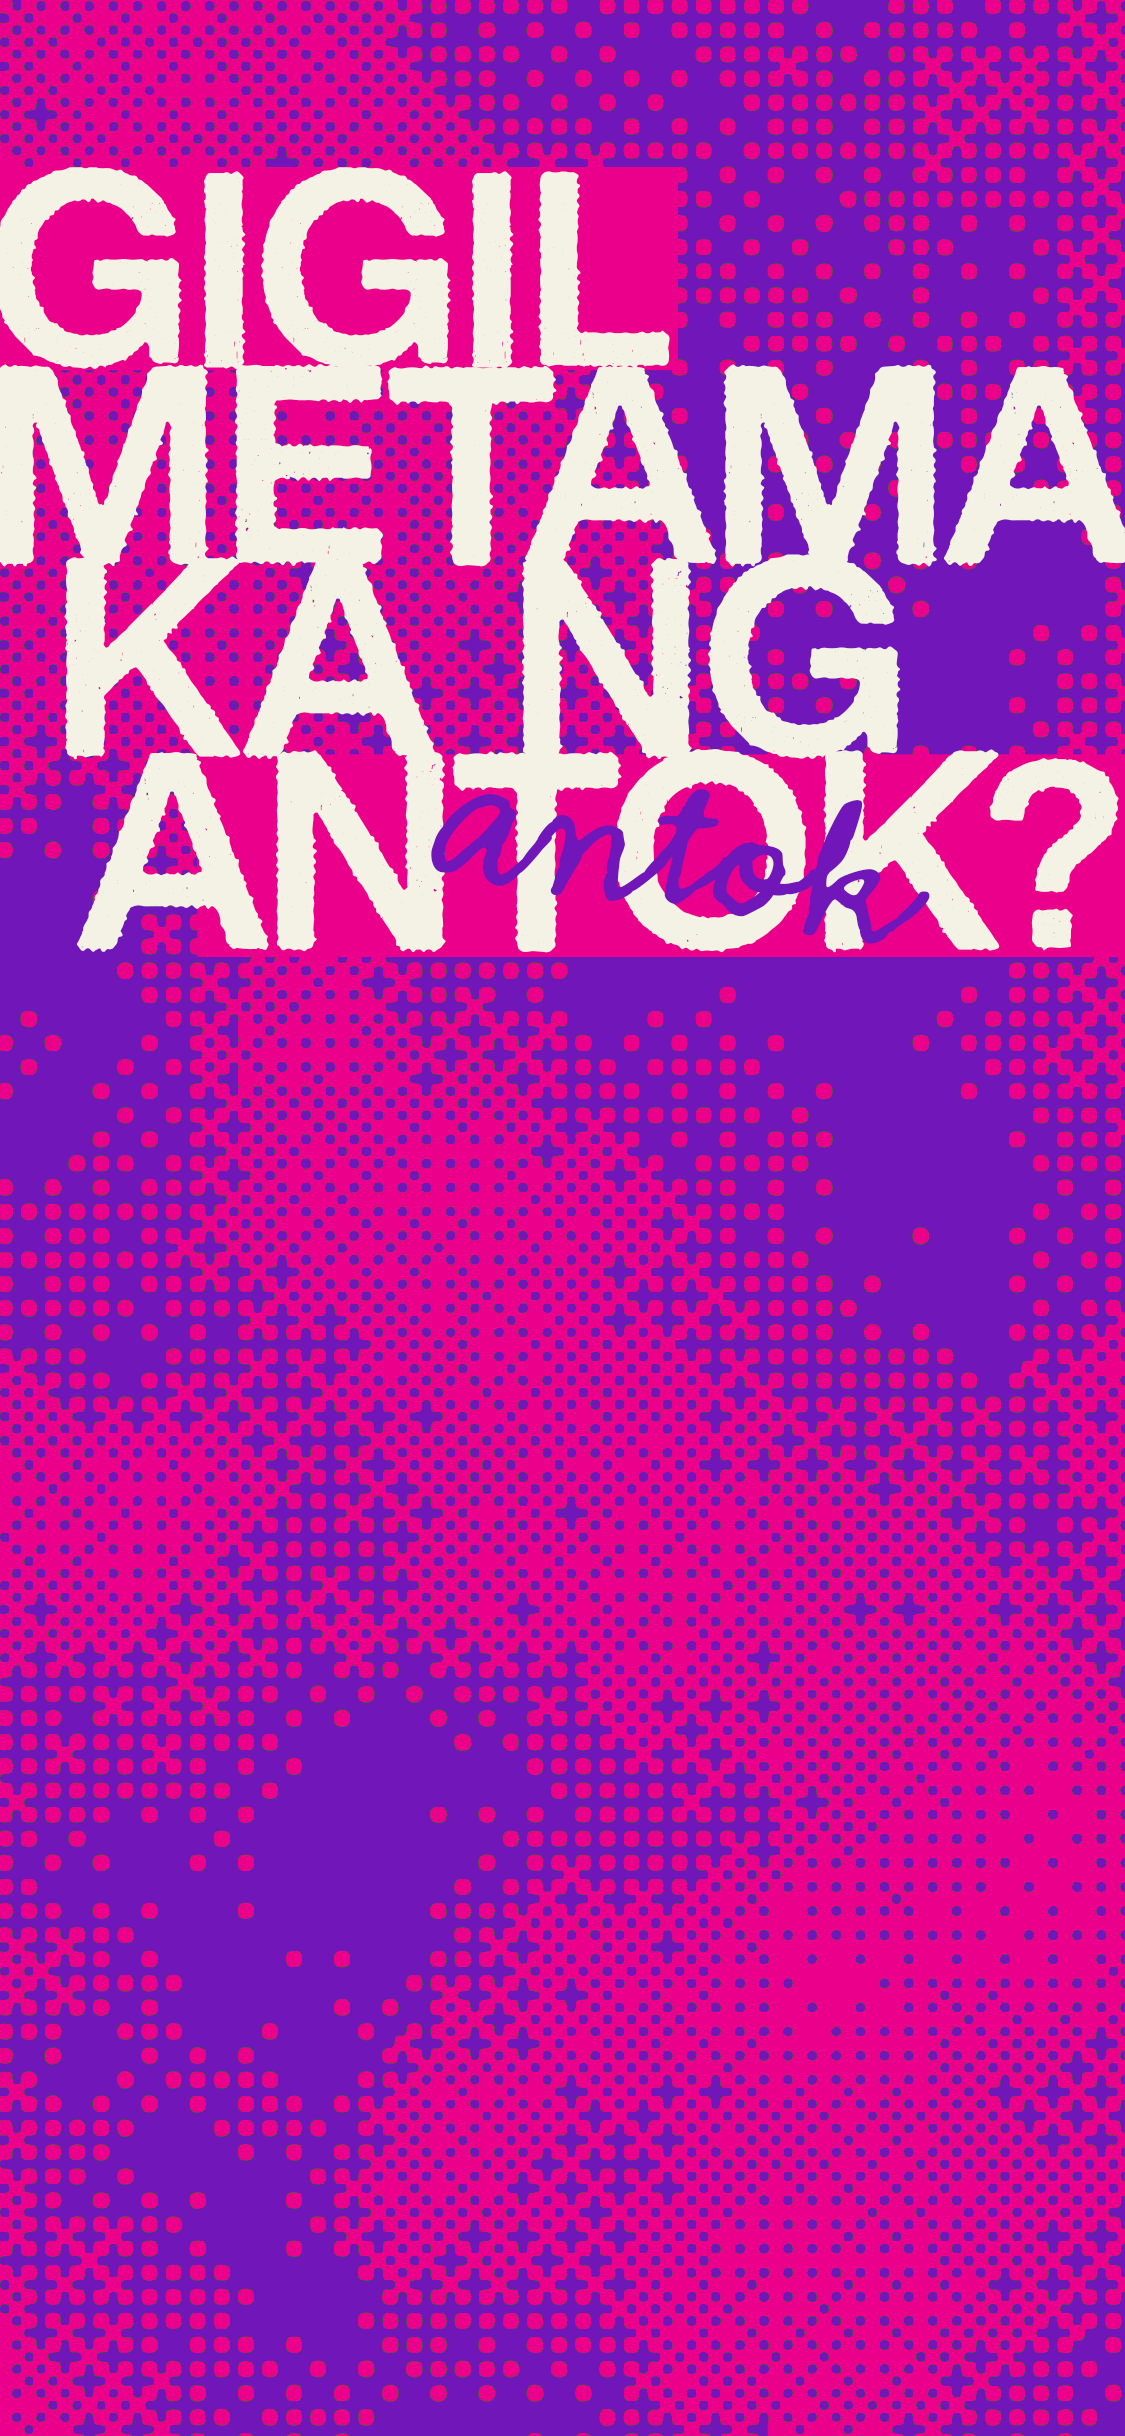
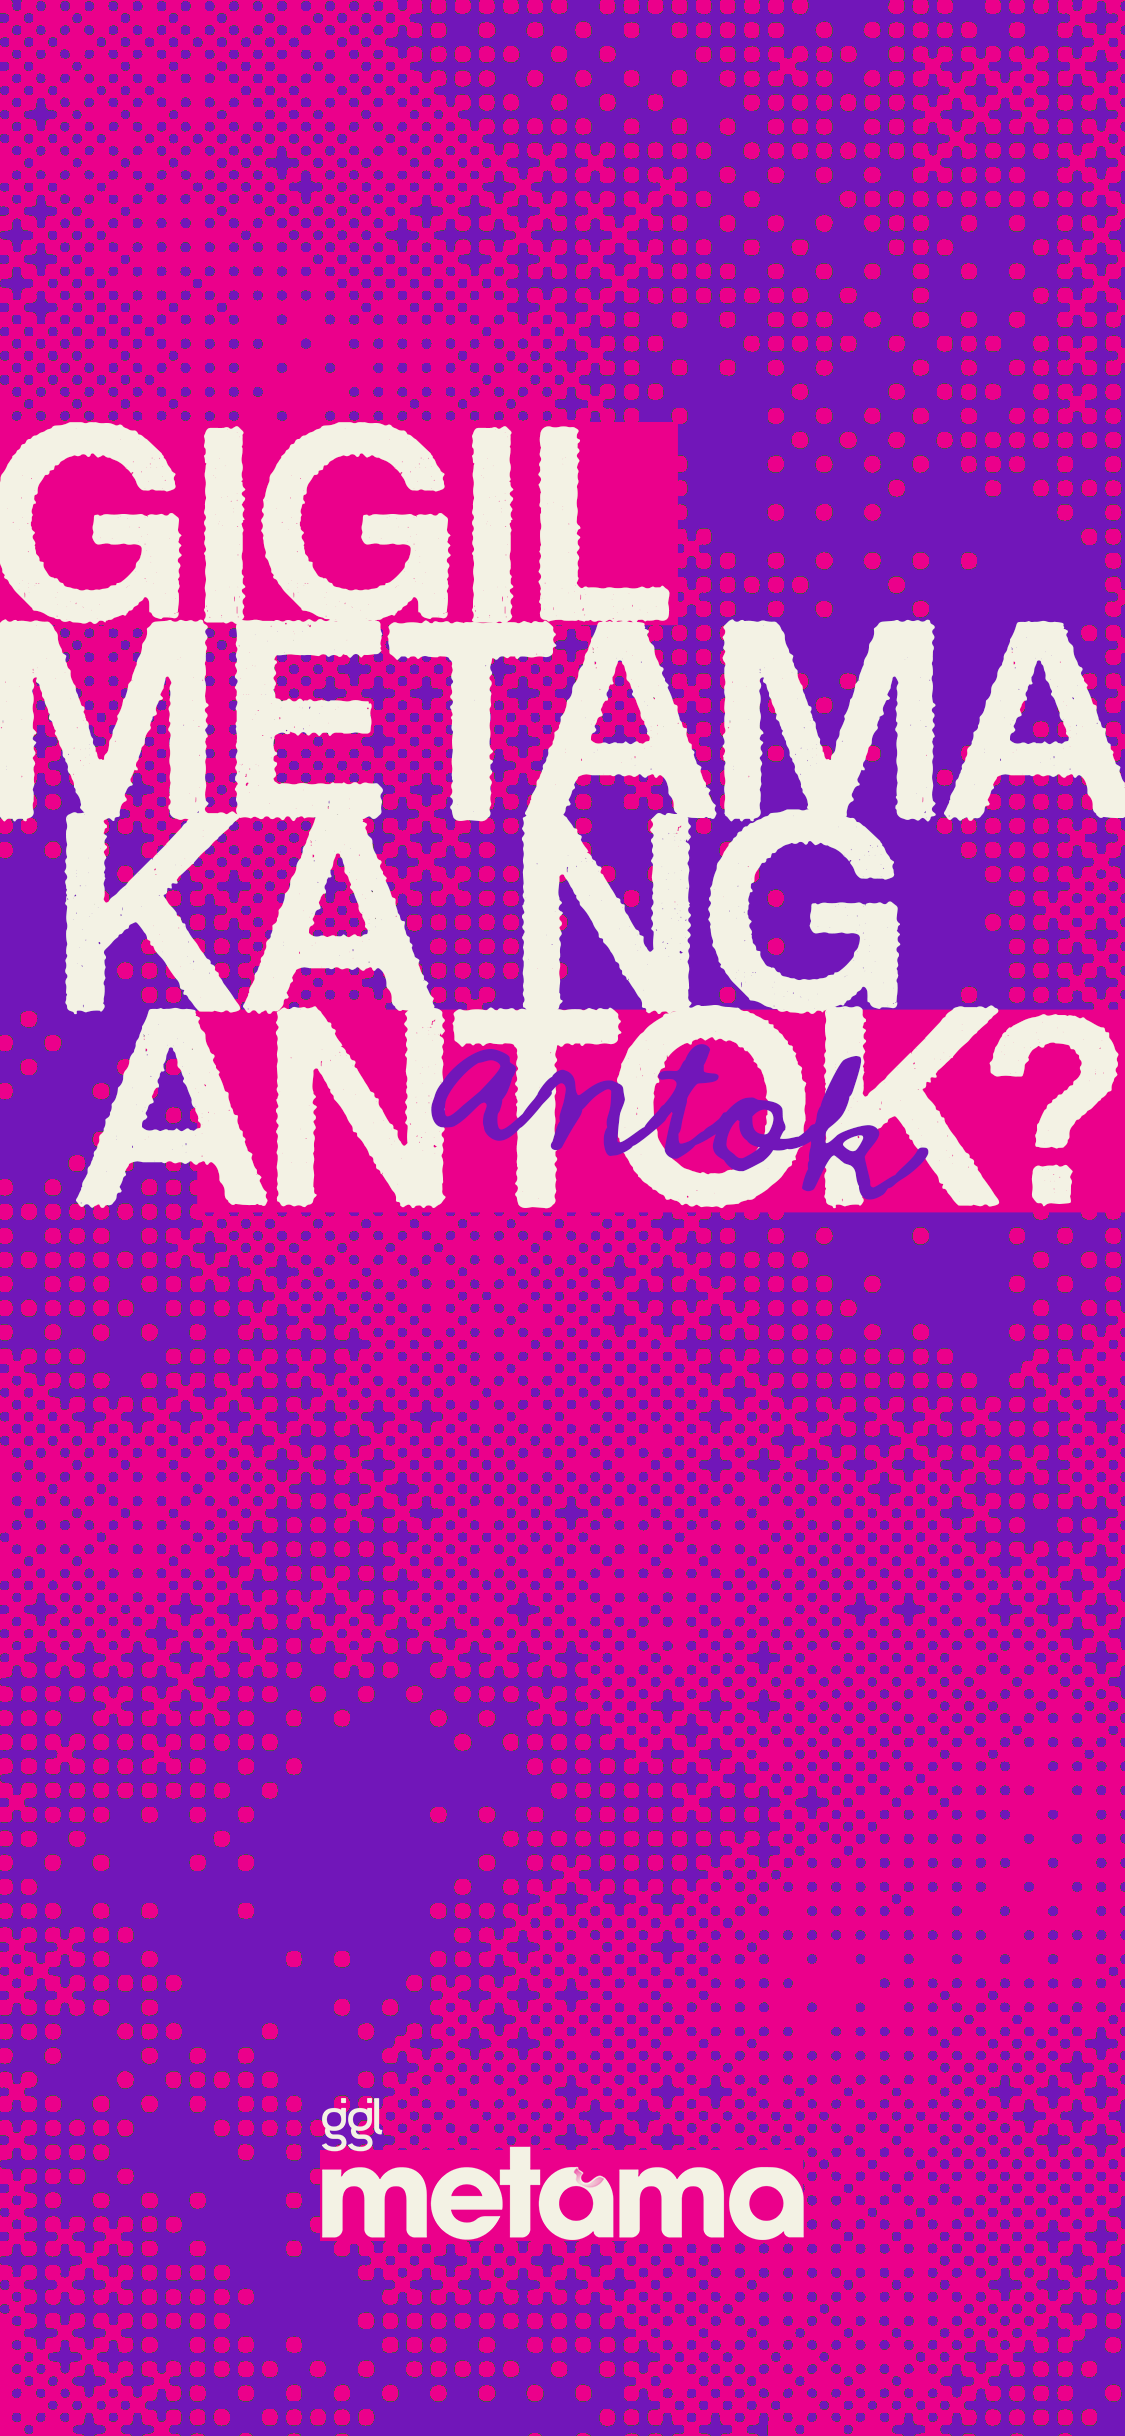
reg button

Changed region(s): [[0.0, 0.0624, 1.0, 0.4992], [0.28, 0.8424, 0.7156, 0.936]]

diff --git a/style.css b/style.css
@@ -51,7 +51,7 @@ html, body { height: 100%; overflow: hidden; }
   --start-btn-h: 116px;   /* was 84px  (keeps ~same aspect) */
 
   /* control this number: 30% … 90% works well */
-  --hero-size-pct: 124%;
+  --hero-size-pct: 74%;
 
   /* Spacing / radius / type */
   --space-1: 8px;  --space-2: 12px; --space-3: 16px; --space-4: 24px;
@@ -212,7 +212,7 @@ body {
   position: absolute;
   width: 100%;
   left: 50%;
-  bottom: 15%;
+  bottom: 24%;
   transform: translateX(-50%);
   display: grid;
   place-items: center;
